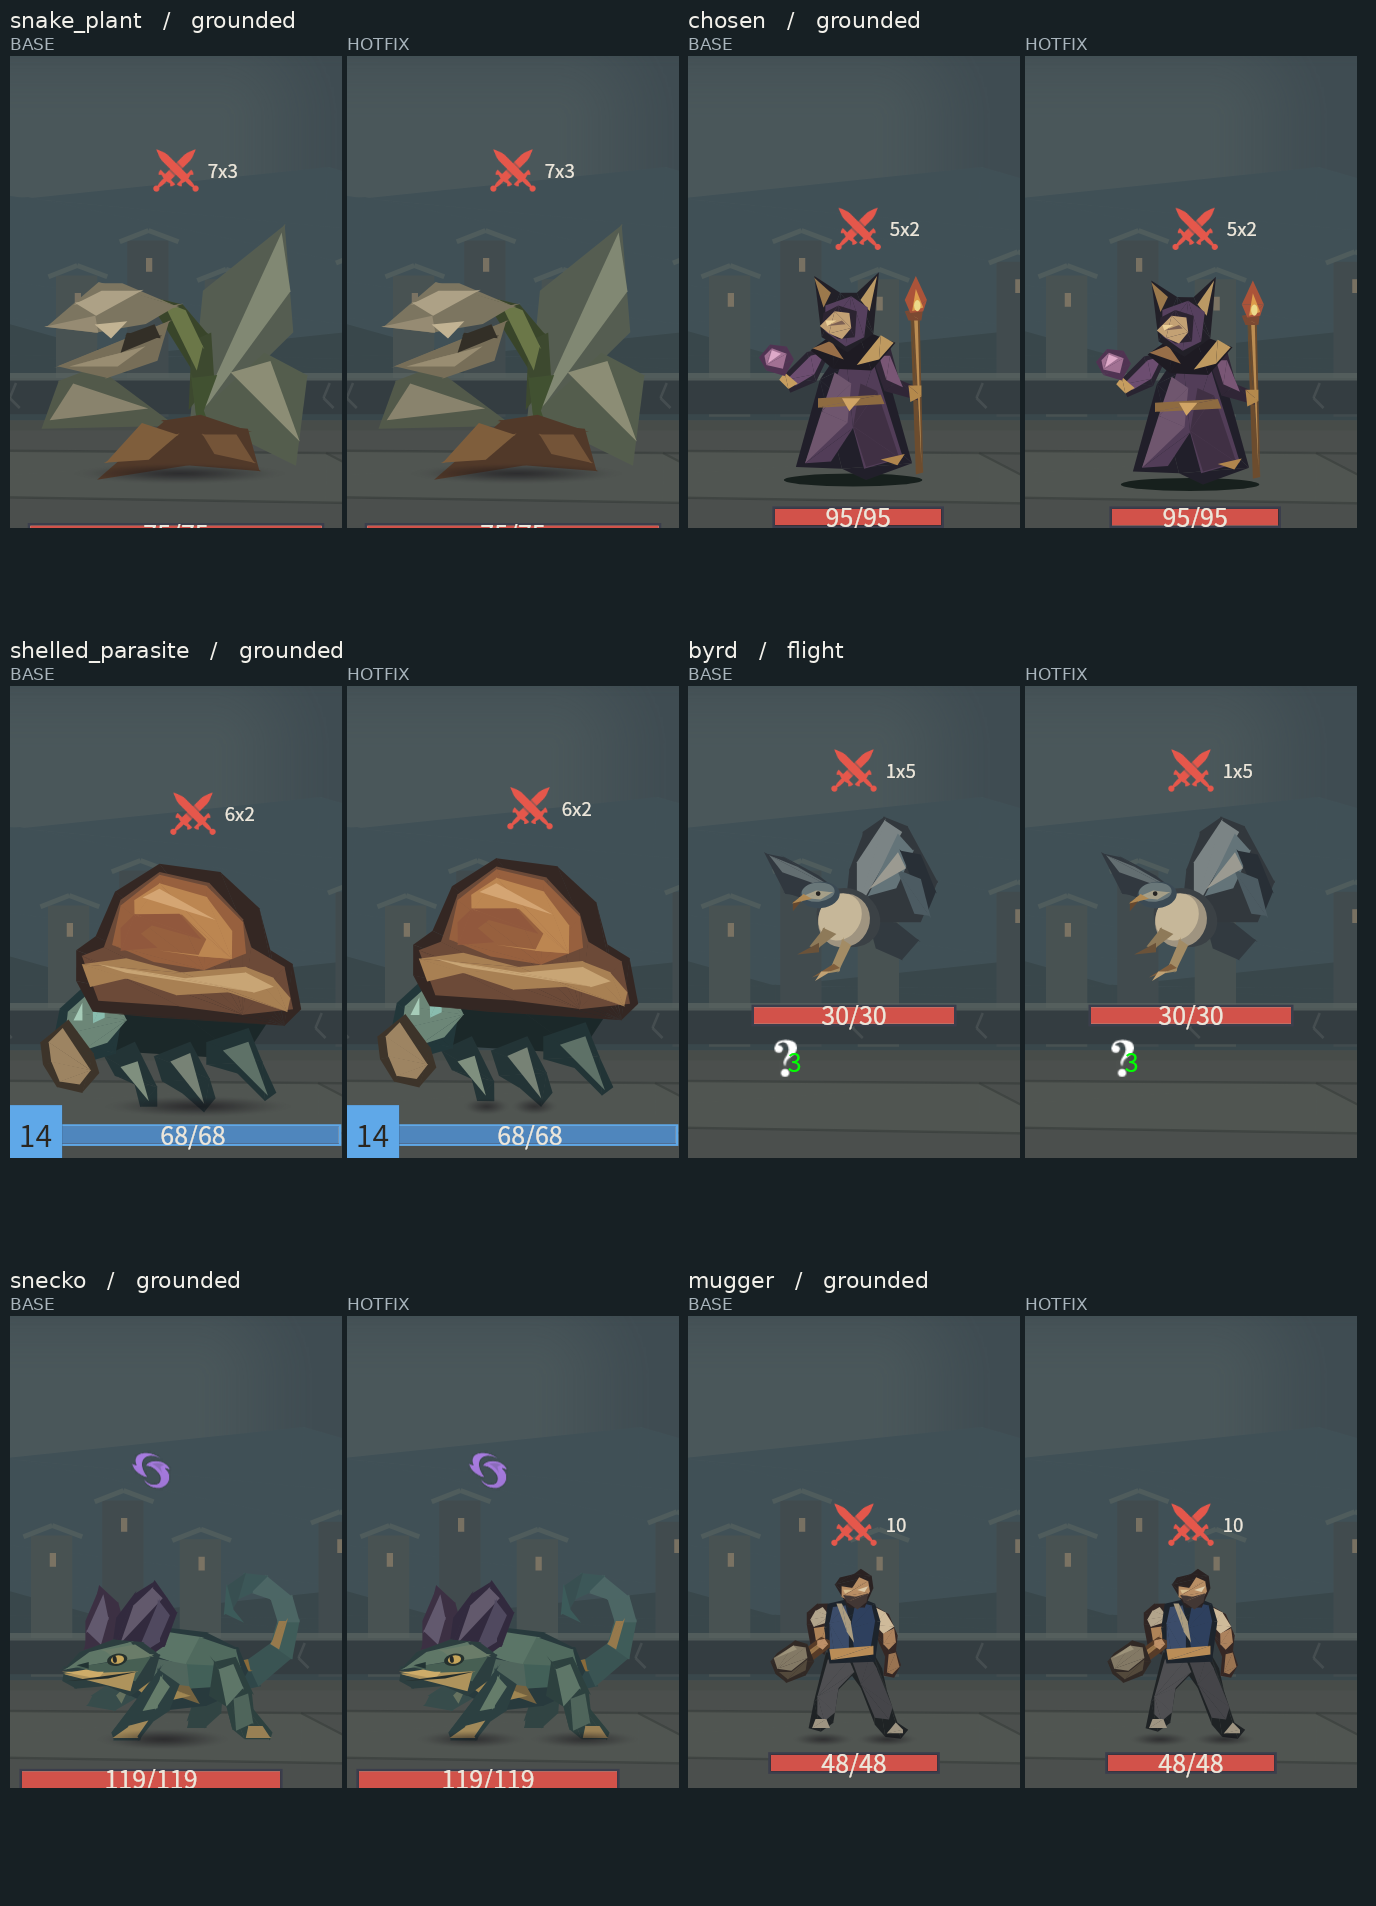
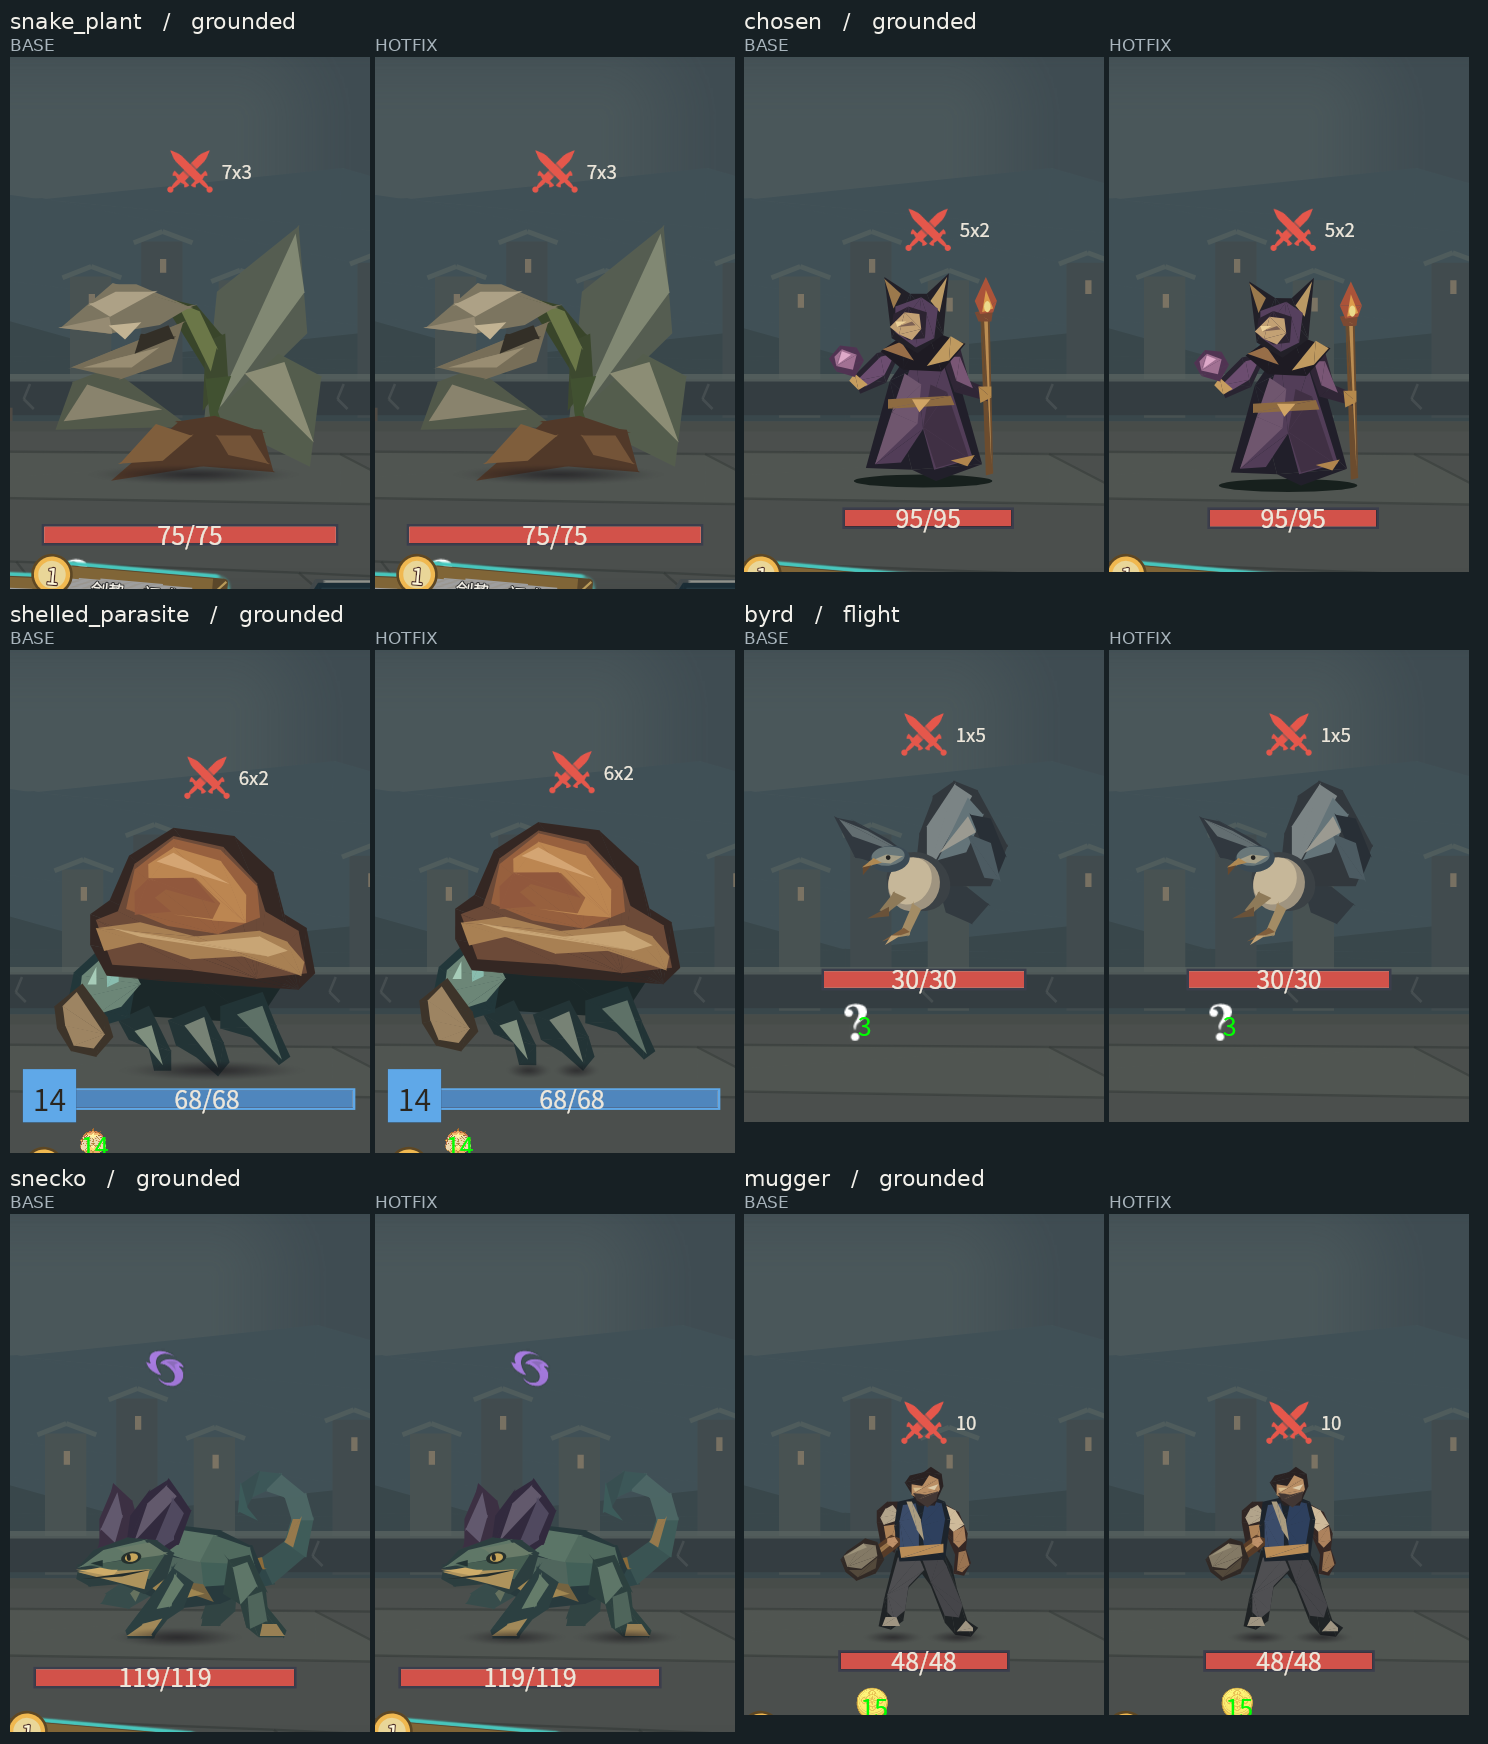
docs(release): keep intent and health visible in contact comparisons

diff --git a/docs/evidence/v2.2.0-enemy-ground-contact/simulator/atlas.py b/docs/evidence/v2.2.0-enemy-ground-contact/simulator/atlas.py
@@ -81,10 +81,13 @@ def crop_box(name, old, new):
     actor = next(e for e in new['enemies'] if e['id'] == enemy_id)
     old_actor = next(e for e in old['enemies'] if e['id'] == enemy_id)
     center = 800 + actor['x'] * 1.25
-    left = max(0, min(1600 - 332, round(center - 166)))
-    top = max(55, min(168, round(450 - 1.25 * max(actor['y'] + actor['intentY'],
-                                                   old_actor['y'] + old_actor['intentY']) - 45)))
-    return (left, top, left + 332, 640)
+    crop_width = 360
+    left = max(0, min(1600 - crop_width, round(center - crop_width / 2)))
+    highest_intent = max(unit['y'] + unit['intentY'] for unit in (actor, old_actor))
+    lowest_health = min(unit['y'] + unit['hpY'] for unit in (actor, old_actor))
+    top = max(0, min(168, round(450 - 1.25 * highest_intent - 80)))
+    bottom = max(640, min(715, round(450 - 1.25 * lowest_health + 55)))
+    return (left, top, left + crop_width, bottom)
 
 
 def gallery(root, before, after, font, small):
@@ -102,18 +105,22 @@ def gallery(root, before, after, font, small):
     outputs = []
     for number, group in enumerate(groups, 1):
         # Preserve source pixels at 1:1. Each adjacent pair uses the same source crop window.
-        crop_width, tile_width, tile_height = 332, 678, 630
-        rows = (len(group) + 1) // 2
-        atlas = Image.new('RGB', (tile_width * 2 + 20, tile_height * rows + 16), DARK)
+        windows = [crop_box(name, before[name], after[name]) for name in group]
+        crop_width = windows[0][2] - windows[0][0]
+        tile_width = crop_width * 2 + 14
+        starts = [8]
+        for row in range(0, len(windows), 2):
+            height = max(bottom - top for _, top, _, bottom in windows[row:row+2])
+            starts.append(starts[-1] + height + 61)
+        atlas = Image.new('RGB', (tile_width * 2 + 20, starts[-1]), DARK)
         draw = ImageDraw.Draw(atlas)
-        for index, name in enumerate(group):
-            x, y = (index % 2) * tile_width + 10, (index // 2) * tile_height + 7
+        for index, (name, window) in enumerate(zip(group, windows)):
+            x, y = (index % 2) * tile_width + 10, starts[index // 2]
             actor = next(e for e in after[name]['enemies'] if e['id'] == name.removeprefix('monster-'))
             title = f"{actor['id']}   /   {actor['classification']}"
             caption(draw, title, (x, y), font)
             caption(draw, 'BASE', (x, y + 27), small, MUTED)
             caption(draw, 'HOTFIX', (x + crop_width + 5, y + 27), small, MUTED)
-            window = crop_box(name, before[name], after[name])
             for offset, side in [(0, before), (crop_width + 5, after)]:
                 source = Image.open(side[name]['path']).convert('RGB')
                 atlas.paste(source.crop(window), (x + offset, y + 49))
@@ -170,9 +177,11 @@ def main():
         'src/lua/abyss_chapter_battle_scene.lua',
         'data/release/refined-monster-art.json',
     ]
+    source_revision = subprocess.check_output(
+        ['git', '-C', str(args.repo), 'log', '-1', '--format=%H', '--', *hashed_inputs], text=True).strip()
     report = {
         'baselineCommit': BASE,
-        'candidateCommit': subprocess.check_output(['git','-C',str(args.repo),'rev-parse','HEAD'], text=True).strip(),
+        'candidateCommit': source_revision,
         'candidateSourceSha256': {path: digest(args.repo / path) for path in hashed_inputs},
         'tool': 'beyond-simulator-mcp@0.5.2',
         'scope': 'Production Lua battle state and controls run under the Fengari native UI fixture. Beyond Simulator Host renders each captured production control snapshot at 1600x900. Simulator screenshots play static snapshots. No official GIL, device, or direct click evidence from the Simulator Host.',

diff --git a/docs/evidence/v2.2.0-enemy-ground-contact/README.md b/docs/evidence/v2.2.0-enemy-ground-contact/README.md
@@ -7,7 +7,11 @@
 | 第一幕 25 个 | [构造、姿态、原版实战来源和接触行](act1.md) · [正式素材合图](act1-native-contact-sheet.png) |
 | 第二幕 17 个 | [构造、姿态、原版实战来源和接触行](act2.md) · [正式素材合图](act2-native-contact-sheet.png) |
 
-35 个正式怪物有固定接触面，5 个保留悬浮高度，聚烬领主保留高位并有石座支撑，巡风隼用既有 Flight 逻辑在飞行与收翼接地之间切换。赤甲虫和巫师小魔补上实测接地点。收藏家是本作的聚烬领主。只有聚烬领主 Boss 房使用石座，对接立绘内建暗边并连接地面。它复用普通二幕场景的 250 个现有槽，进场选择一次，同一战斗刷新、召唤或死亡反馈时不重画。 [原版实战图](https://wikiwiki.jp/slaythespire/%E3%82%B3%E3%83%AC%E3%82%AF%E3%82%BF%E3%83%BC) · [原版王座绘制条件](https://github.com/aeubanks/sts/blob/319009d5df0a82d9fb0f23cc22322286c6a87ec0/scenes/TheCityScene.java#L188-L197)四个接地素材保留内建接触影，接触面按实体底部对齐。正式主题构建将测量和显式高度规则与精绘目录逐项匹配，拒绝缺项、重复与未知 ID。
+35 个正式怪物有固定接触面，5 个保留悬浮高度，聚烬领主保留高位并有石座支撑，巡风隼用既有 Flight 逻辑在飞行与收翼接地之间切换。赤甲虫和巫师小魔补上实测接地点。收藏家是本作的聚烬领主。只有聚烬领主 Boss 房使用石座，对接立绘内建暗边并连接地面。它复用普通二幕场景的 250 个现有槽，进场选择一次，同一战斗刷新、召唤或死亡反馈时不重画。 [原版实战图](https://wikiwiki.jp/slaythespire/%E3%82%B3%E3%83%AC%E3%82%AF%E3%82%BF%E3%83%BC) · [原版王座绘制条件](https://github.com/aeubanks/sts/blob/319009d5df0a82d9fb0f23cc22322286c6a87ec0/scenes/TheCityScene.java#L188-L197)
+
+四个接地素材保留内建接触影，接触面按实体底部对齐。正式主题构建将测量和显式高度规则与精绘目录逐项匹配，拒绝缺项、重复与未知 ID。
+
+固定源码和本作 Simulator 全覆盖 42 个正式身份。两幕表分别列出可直接实看的 STS1 截图，双赤甲虫的同色阵容以固定源码和本作 Simulator 为证。
 
 [全部 42 个正式怪物与重点阵容的 Simulator 画面对照](SIMULATOR.md) · [双赤甲虫与聚烬领主前后整画面](priority-louse-collector.webp)
 
